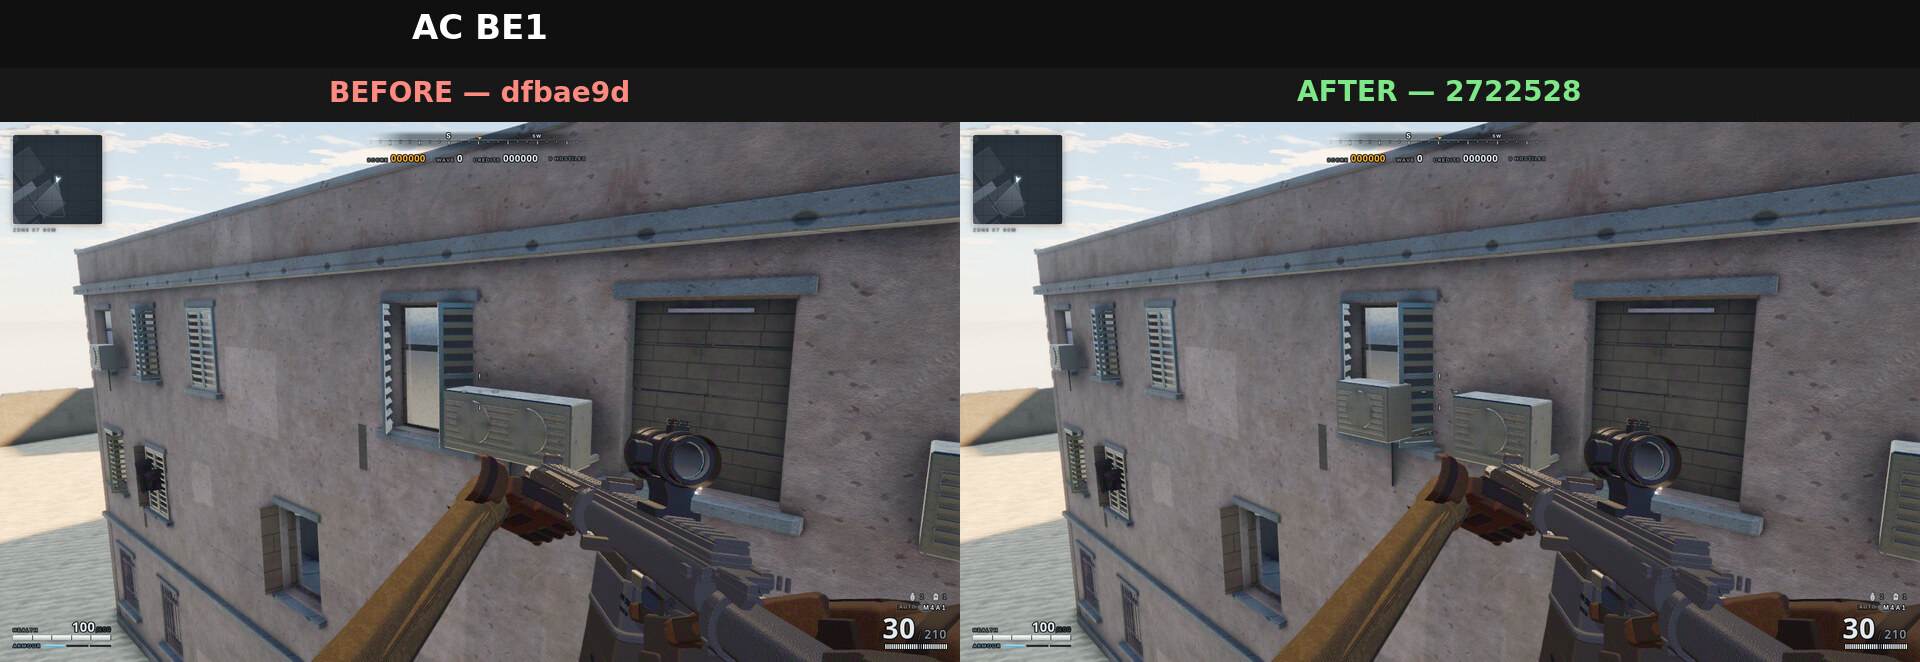
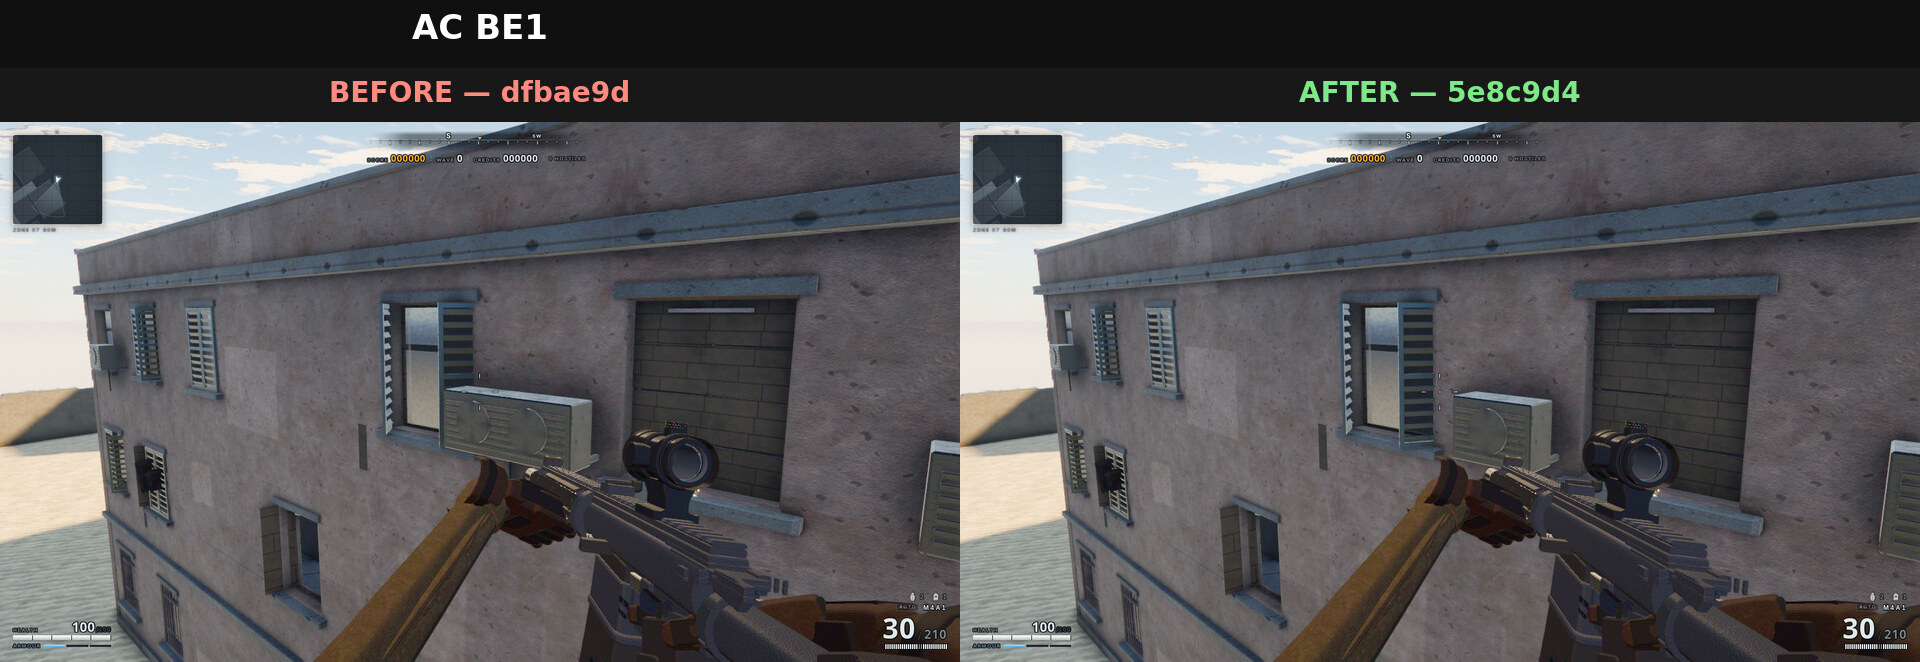
docs(world): refresh secondary collision evidence

diff --git a/docs/world-map-collision-audit/comparisons/README.md b/docs/world-map-collision-audit/comparisons/README.md
@@ -1,12 +1,12 @@
 # World collision fixes — per-cluster before/after gallery
 
-Each image uses the same level-space camera for the pre-fix world (`dfbae9d`, left) and fixed world (`2722528`, right). Procedural `_auto/*` IDs refer to the pre-fix deterministic build; generator changes renumbered or replaced some of those instances.
+Each image uses the same level-space camera for the pre-fix world (`dfbae9d`, left) and a fixed revision on the right. The seven follow-up views use `5e8c9d4`; the other views use `2722528`. Procedural `_auto/*` IDs refer to the pre-fix deterministic build; generator changes renumbered or replaced some of those instances.
 
 ## Stable props
 
 ### 1. BS3 rooftop cluster
 
-`water_tank/0024`, `water_tank/0025`, `water_tank/0028`, `sat_dish/0025`, `crate_a/0026`, `crate_flat/0021`
+`water_tank/0024`, `water_tank/0025`, `water_tank/0028`, `sat_dish/0025`, `crate_a/0026`, `crate_flat/0021`. Follow-up: `crate_a/0027` is seated directly on the roof after its former support stack was removed.
 
 ![BS3 rooftop cluster](01-bs3-rooftop-cluster.jpg)
 
@@ -30,13 +30,13 @@ Each image uses the same level-space camera for the pre-fix world (`dfbae9d`, le
 
 ### 5. West planter pair
 
-`planter/0013`, `planter/0014`
+`planter/0013`, `planter/0014`. Resolution: retain `0013`; remove redundant `0014` rather than moving it into the next balcony.
 
 ![West planter pair](05-west-planter-pair.jpg)
 
 ### 6. East planter pair
 
-`planter/0022`, `planter/0023`
+`planter/0022`, `planter/0023`. Resolution: retain `0022`; remove redundant `0023` rather than moving it into the next balcony.
 
 ![East planter pair](06-east-planter-pair.jpg)
 
@@ -56,7 +56,7 @@ Each image uses the same level-space camera for the pre-fix world (`dfbae9d`, le
 
 ### 9. BE1 façade
 
-`ac_unit/0073`, `ac_unit/0074`
+`ac_unit/0073`, `ac_unit/0074`. Resolution: retain the backed wall unit; remove window-obstructing `0074`.
 
 ![BE1 AC pair](09-ac-be1.jpg)
 
@@ -74,19 +74,19 @@ Each image uses the same level-space camera for the pre-fix world (`dfbae9d`, le
 
 ### 12. E5 corner
 
-`ac_unit/0024`, `ac_unit/0025`
+`ac_unit/0024`, `ac_unit/0025`. Resolution: remove both redundant units because neither available corner position clears the windows.
 
 ![E5 AC pair](12-ac-e5.jpg)
 
 ### 13. BW1 façade
 
-`ac_unit/0061`, `ac_unit/0062`
+`ac_unit/0061`, `ac_unit/0062`. Resolution: remove both redundant units because the gap between windows cannot hold one cleanly.
 
 ![BW1 AC pair](13-ac-bw1.jpg)
 
 ### 14. BE2 façade
 
-`ac_unit/0080`, `ac_unit/0081`
+`ac_unit/0080`, `ac_unit/0081`. Resolution: retain `0080`; remove window-obstructing `0081`.
 
 ![BE2 AC pair](14-ac-be2.jpg)
 
